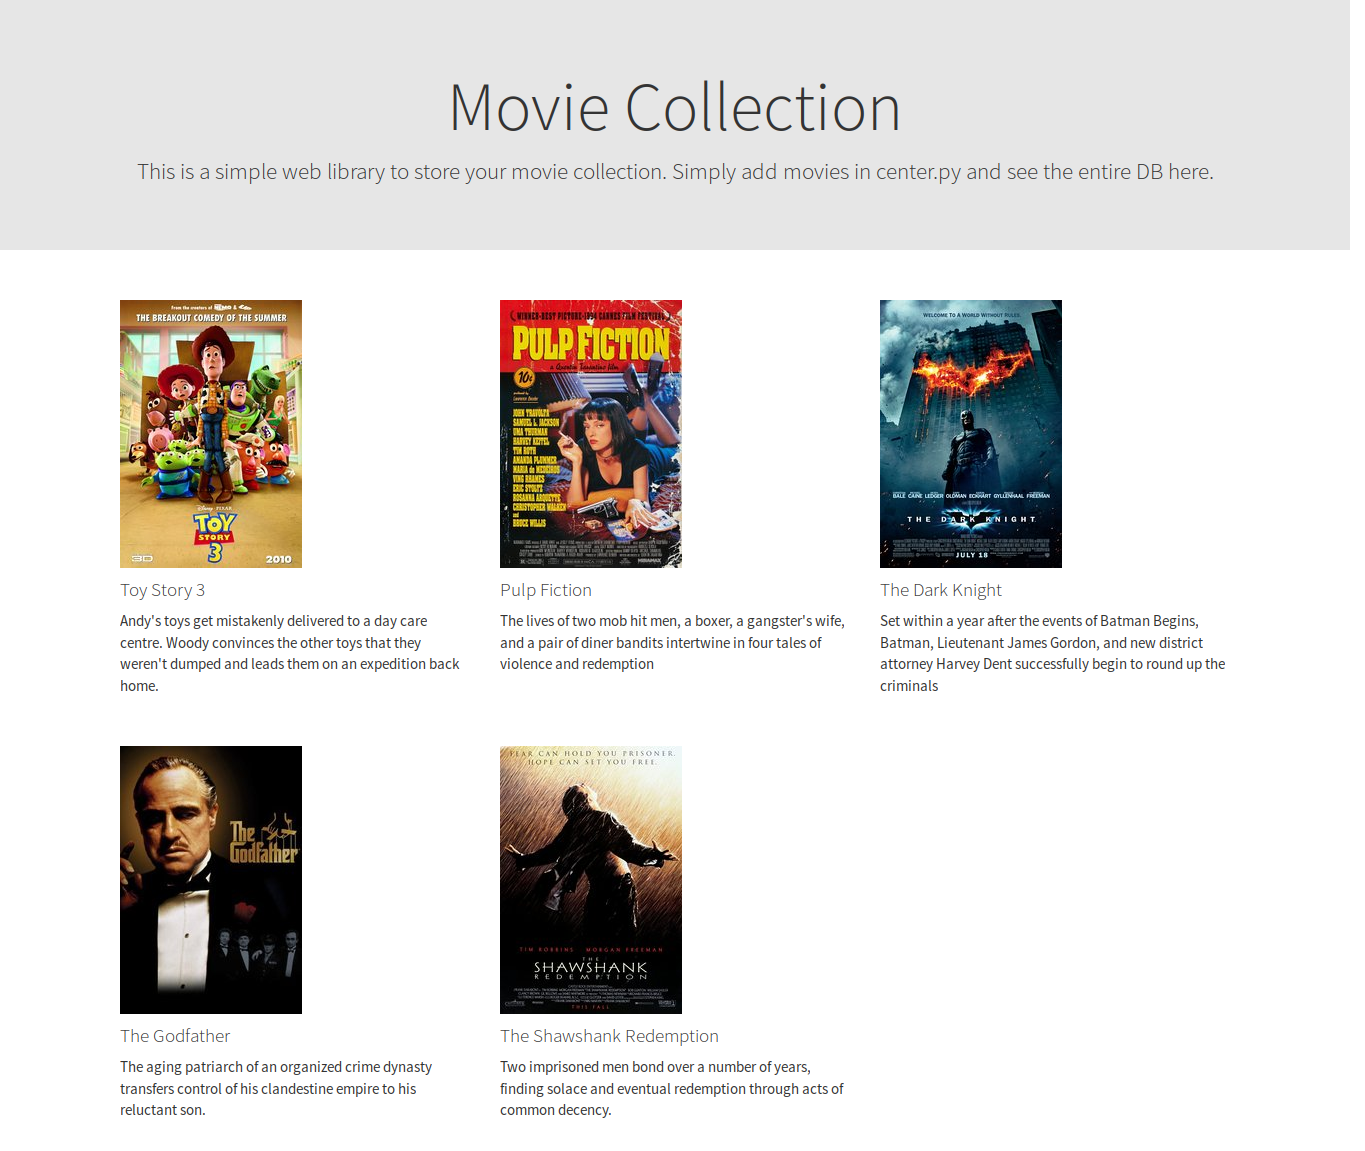
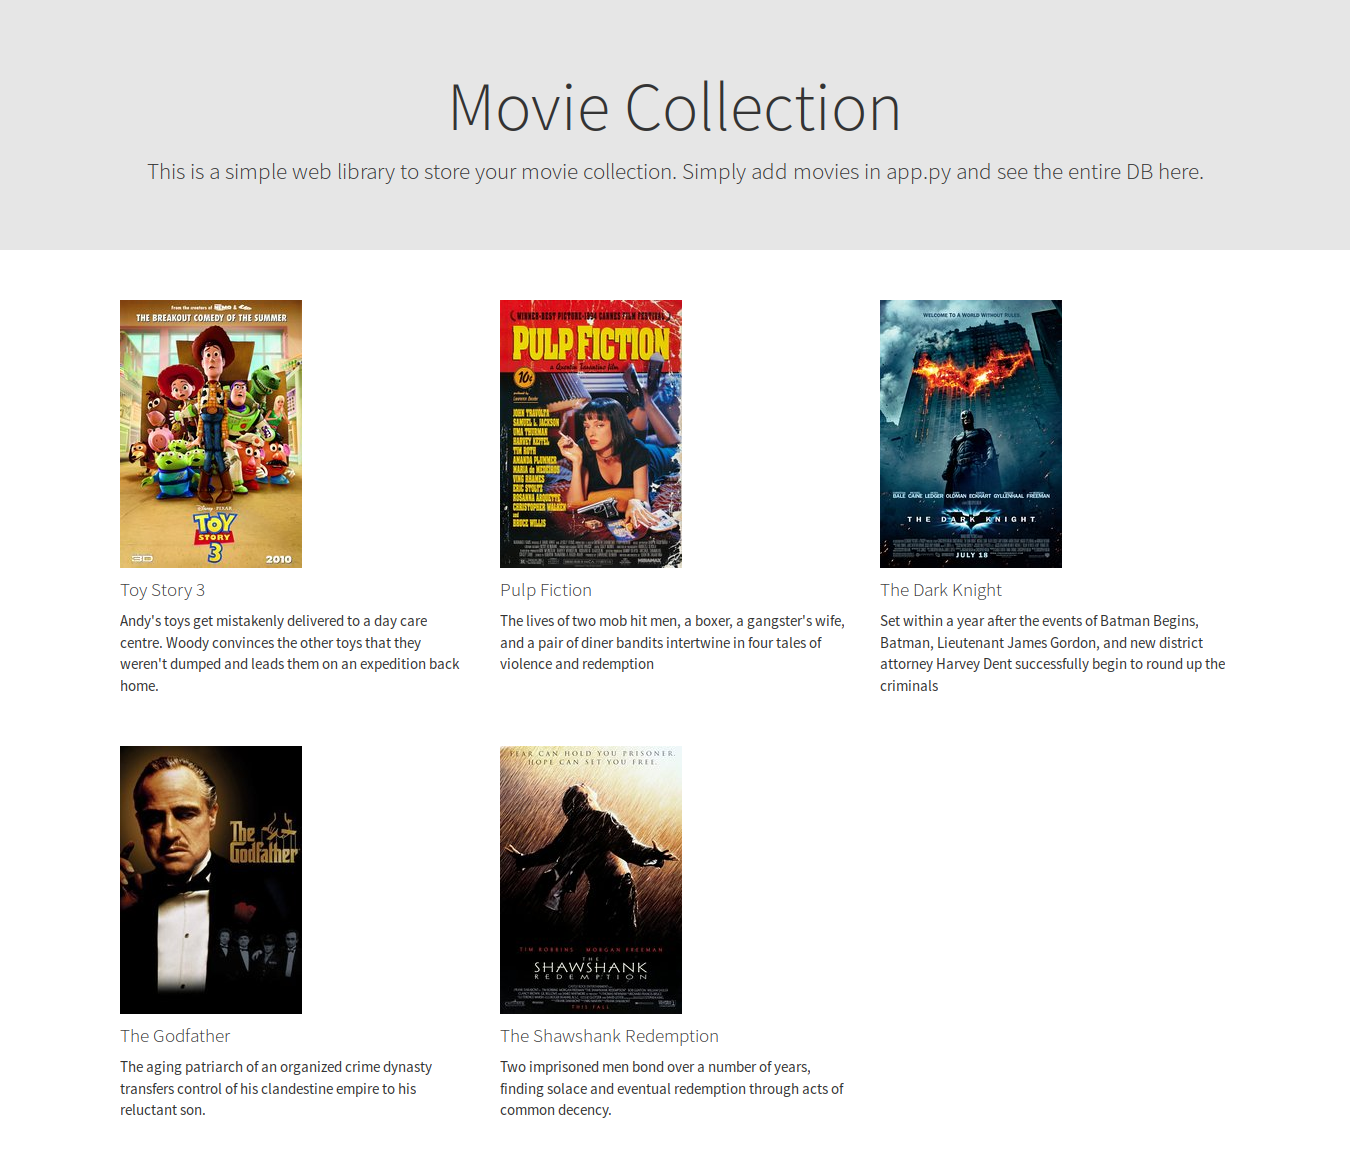
Changes completed after Review

Changed region(s): [[0.0923, 0.1216, 0.6462, 0.1825], [0.6769, 0.1216, 0.8923, 0.1825]]

diff --git a/practicals/projects/movieServer/templates/index.html b/practicals/projects/movieServer/templates/index.html
@@ -57,7 +57,7 @@
   
 <div class="jumbotron">
   <h1 class="text-center">Movie Collection</h1>
-  <p class="text-center">This is a simple web library to store your movie collection. Simply add movies in center.py and see the entire DB here.
+  <p class="text-center">This is a simple web library to store your movie collection. Simply add movies in app.py and see the entire DB here.
   </p>
  
 </div>
